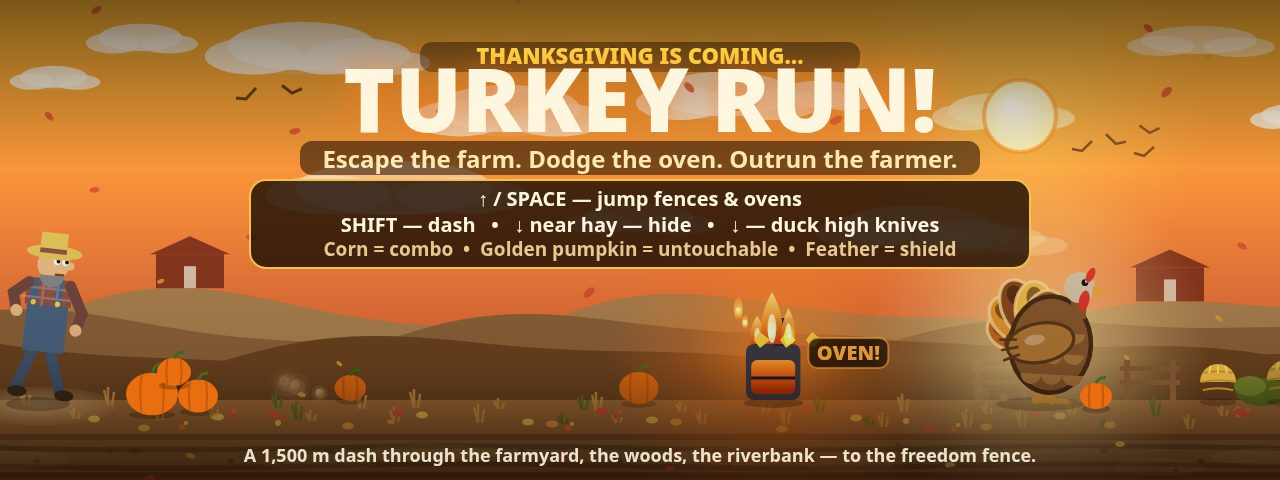
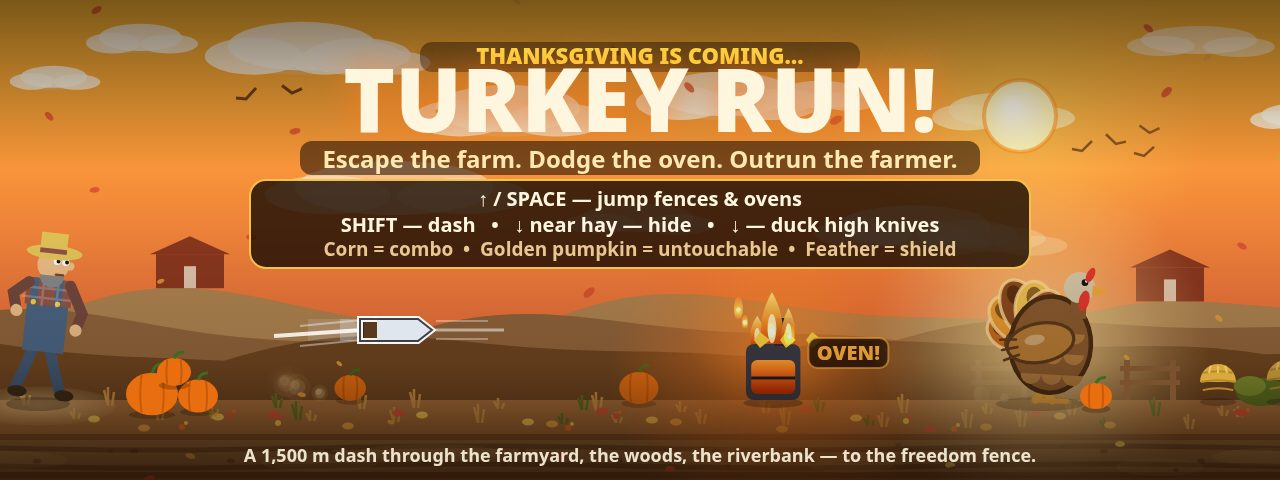
R3 round 8: title frame gains a thrown knife in flight (threat was absent)

Changed region(s): [[0.2188, 0.6562, 0.4062, 0.7188]]

diff --git a/game/src/render.js b/game/src/render.js
@@ -900,10 +900,8 @@ export function createRenderer(canvas) {
     context.drawImage(featherGlowSprite, sx - 30, cy - 30, 60, 60);
   }
 
-  // Carving knife in flight: thick blade + white halo under a dark edge
-  // so it reads against sky and ground at half size; ghost blades and a
-  // white speed streak trail behind it (knives fly right). Spent knives
-  // fade out (alpha 1 until 8 m past the turkey, 0 by 28 m).
+  // Carving knife in flight: thick blade, white halo under a dark edge,
+  // ghost blades + white speed streak behind (knives fly right).
   function drawKnife(sx, y, t, alpha, aim) {
     const a = alpha === undefined ? 1 : alpha;
     const cy = FIELD.groundY - y;
@@ -1944,6 +1942,11 @@ export function createRenderer(canvas) {
     drawFenceRun(1150, FIELD.groundY, STAGES[state.stage]);
     drawHayBale(1218, FIELD.groundY, 0.9);
     drawPumpkin(1096, FIELD.groundY - 4, 16);
+    // Title knife in flight below the panel (aim 0, at the bird):
+    // the title had an oven but no knife, so the core threat never
+    // appeared. t = 0 keeps the blade level (a spinning blade in a
+    // still title reads as tumbling). Clear of panel, BEST, barn, oven.
+    drawKnife(400, 70, 0, 1, 0);
   }
 
   function drawPaused() {

diff --git a/HANDOFF.md b/HANDOFF.md
@@ -1,5 +1,15 @@
 # HANDOFF — turkey-run-game-01 "Turkey Run!"
 
+## 🔄 R3 打磨链第 8 轮：标题帧补一把飞刀——核心威胁首次出现在标题帧（2026-11-28，分支 finals/r3-rounds-3-10）
+
+- **焦点**：Gemini 评审（`~/workspace/make-fun/turkey-finals3/GEMINI-REVIEW.md`，2026-11-28 16:36–17:05）认为 2-start 是四帧最弱：深色说明板占 ~40%、农夫与火鸡像"书挡"无追逃张力、**整帧无刀**（核心玩法机制在标题帧完全缺席）。本轮只改 `game/src/render.js` 的 `drawTitle` 末尾：加一把定锚飞刀 `drawKnife(400, 70, 0, 1, 0)`（屏幕 (400,330)，面板之下、地面之上的开阔山丘带，刀尖向右、aim 0 对准火鸡），面板/BEST 行/谷仓/烤箱全部留出间隙；不碰说明板结构（G-09 砍板重设计已否决）、不动火鸡/农夫姿态。
+- **Revision pass**：第一版 `t = state.elapsed` 重拍——刀身因旋转 ~45° 斜指右下，读作"翻滚/下坠"而非投掷；第二版 `t = 0` 重拍——刀身水平、刀柄在左、刀尖向右、长速度线在后、前向速度线指向火鸡，读作"刚离手、飞向火鸡"，保留第二版。
+- **中途改向**：本轮原定焦点是结束帧右丘带补装（`drawHills` 中景装扮块由 play-only 扩到 SCREEN_OVER），已实拍验证有效（仅 4-end 变化 467 抽样像素，橡树+栅栏+第二谷仓+干草堆补满右丘带，无碰撞）；但 Gemini 追加任务到后，总协调员优先标题帧 + G-01/G-02（只剩 3 轮），该改动已 `git checkout` 撤回，未进任何 commit，右丘带装扮留作后轮候选。
+- **Gemini 建议追踪（本轮记录，三条都要有结论）**：**G-01 刀加深色描边/冷钢色——采纳，下一轮（第 9 轮）焦点**：danger 刀划过烤箱火焰时被黄火"吃掉"，最优先、零叙事风险。**G-02 火鸡轮廓光 1.5px 暖金——采纳，第 10 轮焦点**：与 R3 P0-1 同款，Gemini 给了具体颜色 `rgba(255,230,170,0.85)` 与线宽，可直接用；惠及 play + end 的棕身分离。**G-03 结束帧地面辉光 + 加深接触阴影——不采纳**：merged-r3 已有 B 的暖光池（150×24、`rgba(255,214,130,0.22)`，正落在 G-03 提议的辉光位置与暖色上）+ A 的身体描边 3.5px，第 4 轮尾扇描边又补了下缘分离；G-03 的辉光（r60、`rgba(255,200,80,0.25)`）与既有光池同位同色，叠加只会把脚下洗成亮斑，接触阴影 0.28→0.5 若不加 celebrate 门则会连 play/danger 的跳跃影一起压暗，边际收益为负。**G-11 结束帧删平躺刀 + 农夫换"败下阵来"姿态——不采纳**：Gemini 把平躺刀误读成"飞向火鸡脚的刀"，B 评委明确把平躺刀读作"用过的刀、威胁已解除"的正面叙事细节，两者直接冲突，以 B 为准。
+- **验证**：4 张重拍，0 console 报错、0 外部请求；仅 2-start 变化（218 抽样像素 >30 级），其余三帧 byte-identical；刀裁剪放大确认水平刃、暗边、速度线俱全，与面板/BEST/谷仓/烤箱无碰撞；半尺寸总览图通过（标题帧中段多一条白色飞刀轨迹，农夫→火鸡的追逃线第一次出现）；`main.ts` 两次 byte-identical。
+- **Dossier**：162,981 → **163,148 字节（+167，余量 392，无截断标记）**——本轮先写到 163,443（余量仅 97），随后精简本轮注释 + `drawKnife` 头注释（纯注释，截图 md5 逐张不变）省出 295 字节。第 9 轮 G-01 必须是数值替换（0 字节），第 10 轮 G-02 弧线约 +150 字节，余量刚够。
+- **下一轮**：第 9 轮 G-01（刀深色描边加深，数值替换）；第 10 轮 G-02（火鸡背/顶缘暖金轮廓光 1.5px）+ base pilot 20 种子复核（基线 3/20）。
+
 ## 🔄 R3 打磨链第 7 轮：危险帧左上天空带补一对定锚海鸥（仅树林阶段）（2026-11-28，分支 finals/r3-rounds-3-10）
 
 - **焦点**：danger 帧左上带（COMBO pill 之下、火鸡左侧、y~150–200、x0–250）是总览图最后一段空天；play 同带有一朵大云 + 鸟群经过。只改 `game/src/render.js` 的 `drawSky`：在 flock 之后加树林阶段（`state.stage === 1`）限定的定锚鸟对（gx≈140、gy≈168，复用 `BIRD_PAIR` 错开 + 同款 V 形海鸥 + 轻微 bob），与 COMBO pill（底 y137）、44m pill、农夫帽顶（y~210）、火鸡（x≥250）全部留出间隙；标题/结束/农场帧不受影响（其余三帧 byte-identical）。
